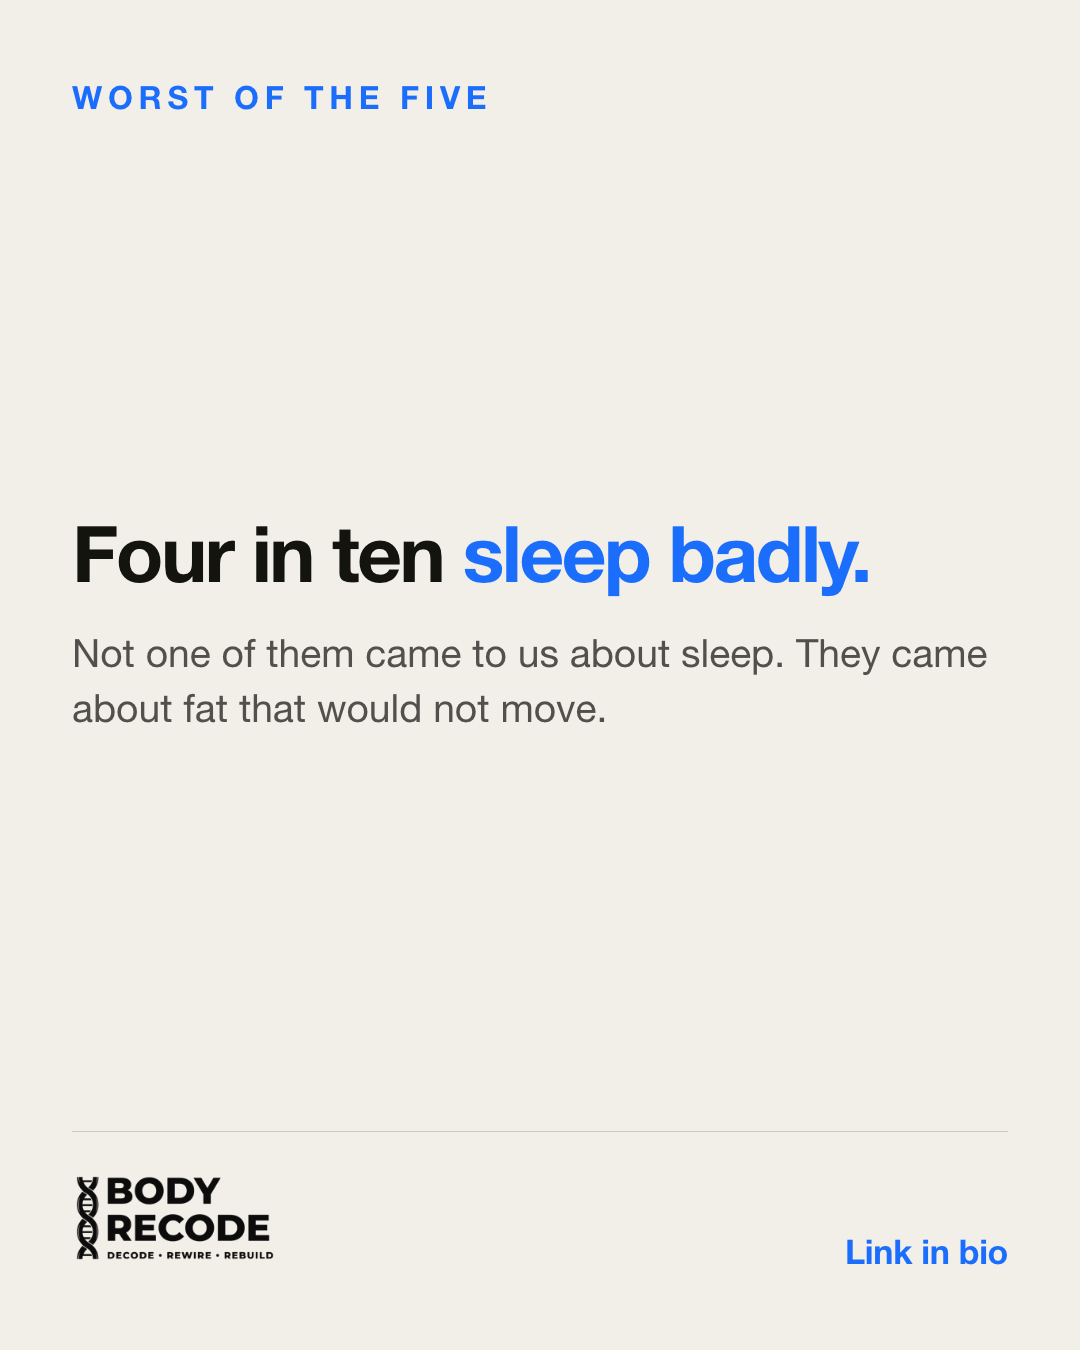
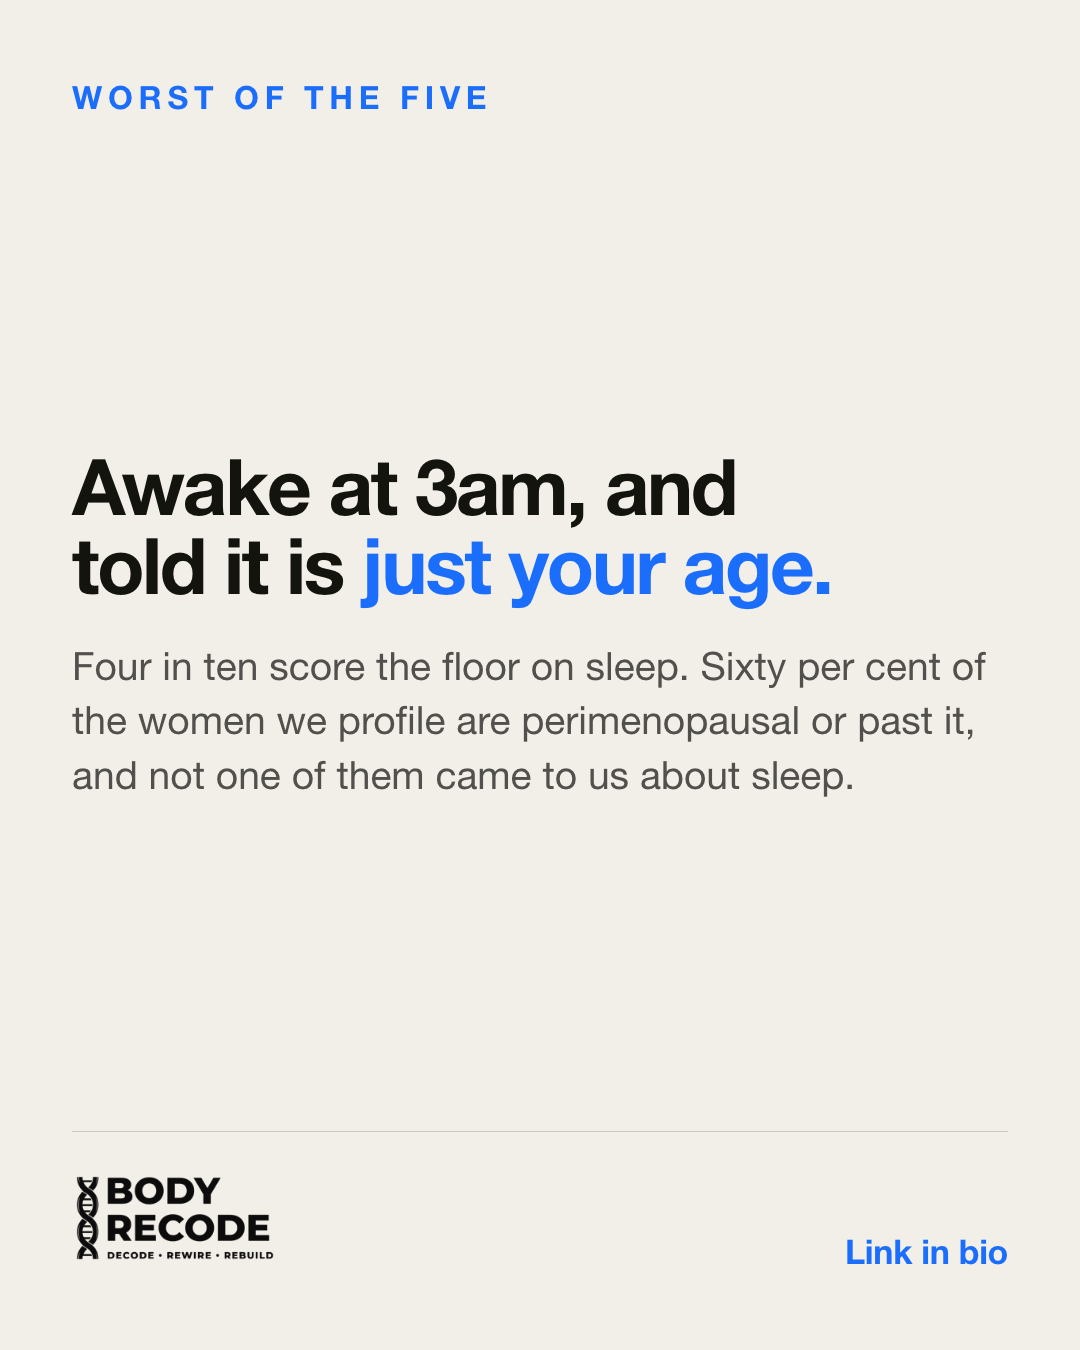
Lock the coverage spec and enforce it before scheduling
Four gaps were caught one at a time by eye on a review sheet: no readiness, no
carousels, no photo of Kade, nothing naming the oestrogen population. Each cost a
round trip. A checklist that runs beats four corrections.

audit-coverage.ts tests the words in the post rather than the intent behind it.
A post reading "interpretation before prescription" sounds like Body Recode and
names no pillar, no profile and no state, which is exactly the failure.

It caught two things immediately. One jargon slip, "score the floor", which is
our vocabulary and not theirs. And twelve posts where there should have been ten
- my seeder matched on date AND type, so changing a post's type created a second
row instead of updating the first and left a superseded duplicate on the same
day. Matching on date only now.

Menopause and the profile types are populations, not pillars, so they run
through neurowellness and readiness rather than sitting beside them.

Changed region(s): [[0.0611, 0.3422, 0.9167, 0.5911]]

diff --git a/scripts/audit-coverage.ts b/scripts/audit-coverage.ts
@@ -1,0 +1,95 @@
+// COVERAGE SPEC for a fortnight of @body_recode_ posts, and the audit that
+// enforces it.
+//
+// Locked 20 Aug 2026 after four separate gaps were caught one at a time by eye:
+// no readiness at all, no carousels, no photo of Kade, and nothing naming the
+// oestrogen population. Each was found only because Kade looked at a sheet. A
+// checklist that runs is worth more than four corrections.
+//
+// Everything here tests the WORDS IN THE POST, not the intent behind it. A post
+// that reads on-brand while naming none of the pillars is the exact failure this
+// is for: "interpretation before prescription" sounds like Body Recode and
+// mentions neither sleep, stress, capacity nor a profile.
+//
+// Run: npx tsx --env-file=.env.local scripts/audit-coverage.ts --from=2026-09-01 --to=2026-09-14
+import { createClient } from '@supabase/supabase-js'
+
+const db = createClient(process.env.NEXT_PUBLIC_SUPABASE_URL!, process.env.SUPABASE_SERVICE_ROLE_KEY!)
+const arg = (k: string, d: string) => process.argv.find(a => a.startsWith(`--${k}=`))?.split('=')[1] ?? d
+const FROM = arg('from', '2026-09-01')
+const TO = arg('to', '2026-09-14')
+
+// ── the spec ────────────────────────────────────────────────────────────────
+const CHECKS = [
+  // The two profile types that actually turn up. Ratios, never decimals: the
+  // pattern split is n=27 and a decimal will move.
+  { id: 'profile · stress-stored', min: 2, re: /stress|cortisol|wired|protection mode|central from the start/i,
+    why: 'roughly half of profiles' },
+  { id: 'profile · oestrogen-shift', min: 2, re: /oestrogen|estrogen|perimenopaus|menopaus|hips and thighs|the transition|moved to the middle/i,
+    why: 'about a third of profiles, and 60% of the group is peri or post' },
+
+  // The three states, together, at least once. Naming one alone does not teach
+  // the model.
+  { id: 'the three states', min: 1, re: /depleted[\s\S]{0,400}transitioning[\s\S]{0,400}ready|three states/i,
+    why: '31 / 51 / 18 - the thing the scorecard actually outputs' },
+
+  // Pillar airtime, 6 / 3 / 1 per ten.
+  { id: 'pillar · neurowellness', min: 4, re: /\bsleep|\bstress|regulat|nervous system|recover|3am|waking|rested/i,
+    why: 'target 6 in 10' },
+  { id: 'pillar · readiness', min: 3, re: /readiness|capacity|absorb|take the load|\bready\b|transitioning|depleted/i,
+    why: 'target 3 in 10' },
+  { id: 'pillar · metabolic', min: 1, max: 2, re: /insulin|carb|blood sugar/i,
+    why: 'target 1 in 10, and it works as a disqualifier not a claim' },
+
+  // Audience. 93% female, so the copy has to say so.
+  { id: 'names women', min: 10, re: /\bwomen\b|\bwoman\b|\bshe\b|\bher\b/i,
+    why: '93% female - every post, not most of them' },
+]
+
+// Age framing: 59% are 45+, which means four in ten are younger. Narrowing to
+// "45+" or "over 40" quietly excludes a large part of the audience.
+const AGE_NARROW = /\bover 40\b|\b40\+|\b45\+|\bover 45\b|\bwomen in their fifties\b/i
+
+// Our vocabulary, not theirs. These read as jargon cold.
+const JARGON = /floor sleep|score the floor|body state|capacity is fine|regulation is gone|n=\d+|section 0\d/i
+
+async function main() {
+  const { data } = await db.from('calendar_posts')
+    .select('date, title, caption, graphic, type')
+    .eq('brand', 'body_recode').eq('platform', 'instagram')
+    .neq('type', 'story')
+    .gte('date', FROM).lte('date', TO).order('date')
+  const rows = (data ?? []) as Array<Record<string, string | null>>
+  const text = (p: typeof rows[0]) => `${p.title ?? ''} ${p.caption ?? ''}`
+  const slides = (p: typeof rows[0]) => (p.graphic ?? '').split(',').filter(Boolean).length
+
+  console.log(`\nCOVERAGE · @body_recode_ · ${FROM} to ${TO} · ${rows.length} feed posts\n`)
+  let fails = 0
+
+  for (const c of CHECKS) {
+    const hits = rows.filter(p => c.re.test(text(p)))
+    const ok = hits.length >= c.min && (!c.max || hits.length <= c.max)
+    if (!ok) fails++
+    console.log(`${ok ? 'PASS' : 'FAIL'}  ${c.id.padEnd(28)} ${String(hits.length).padStart(2)}/${c.min}${c.max ? `-${c.max}` : '+'}   ${c.why}`)
+  }
+
+  // formats
+  const carousels = rows.filter(p => slides(p) > 1).length
+  const photos = rows.filter(p => /_neuro\.png|_readiness\.png|_metabolic\.png/.test(p.graphic ?? '') === false && slides(p) === 1).length
+  const fmtOk = carousels >= 2
+  if (!fmtOk) fails++
+  console.log(`${fmtOk ? 'PASS' : 'FAIL'}  ${'formats · carousels'.padEnd(28)} ${String(carousels).padStart(2)}/2+   dwell time, and a set of singles has none`)
+
+  // clarity
+  const jargon = rows.filter(p => JARGON.test(text(p)))
+  const narrow = rows.filter(p => AGE_NARROW.test(text(p)))
+  if (jargon.length) fails++
+  if (narrow.length) fails++
+  console.log(`${jargon.length ? 'FAIL' : 'PASS'}  ${'clarity · no jargon'.padEnd(28)} ${jargon.length} found     our vocabulary, not theirs`)
+  for (const p of jargon) console.log(`        ${p.date}  "${text(p).match(JARGON)?.[0]}"`)
+  console.log(`${narrow.length ? 'FAIL' : 'PASS'}  ${'audience · age not narrowed'.padEnd(28)} ${narrow.length} found     4 in 10 are under 45`)
+  for (const p of narrow) console.log(`        ${p.date}  "${text(p).match(AGE_NARROW)?.[0]}"`)
+
+  console.log(fails ? `\n${fails} FAILING. Fix before scheduling.\n` : '\nAll checks pass.\n')
+}
+main()

diff --git a/scripts/seed-sept-br-posts.ts b/scripts/seed-sept-br-posts.ts
@@ -3,10 +3,10 @@ const db = createClient(process.env.NEXT_PUBLIC_SUPABASE_URL!, process.env.SUPAB
 const POSTS = [
  ['2026-09-01','readiness','authority','Only 18 women in 100 could handle a hard plan',
   `Eighty-eight women have now been assessed.\n\nEighteen in every hundred came out able to handle a hard training plan.\n\nThe rest get one anyway. That is how plans are written: they assume a body that can absorb the work, then the same programme goes to the woman who can and the woman who cannot.\n\nOnly one of them gets a result.\n\nThe free 14-day Challenge tells you which one you are on day one.`],
- ['2026-09-02','readiness','contrarian','Same symptoms. Opposite fix.',
-  `Two women walk in with the same complaint. Tired all the time, flat sessions, a body that will not change.\n\nOne of them needs to do more.\n\nThe other is already doing too much, and every extra session makes it worse.\n\nFrom the outside they look identical. That is why the woman training hardest in any group is so often the one getting the least back.\n\nThe difference is capacity: what her body can absorb this week, not how willing she is.`],
- ['2026-09-03','neurowellness','pattern','Four in ten sleep badly',
-  `The women we assess do not come to us about sleep.\n\nThey come about fat that will not move, a plan that stopped working, a body that used to respond.\n\nThen we score them and sleep comes out bottom of the five. Awake at 2am. Up at 6 feeling like they never went to bed.\n\nYour body does not change during the session. It changes overnight.`],
+ ['2026-09-02','readiness','pattern','Same place. Different cause.',
+  `Nearly half the women we assess say the fat sits in the middle.\n\nWhich on its own tells you almost nothing, because three of the four causes push it there.\n\nStress was central from the start, and the arms and legs get thinner while the middle fills.\n\nFalling oestrogen is different. It started at the hips and thighs and moved to the middle over the last few years.\n\nSame place. Nothing like the same correction. And in the second phase they look identical, which is where most women get typed wrong.\n\nSo the question is not where it sits. It is whether it moved.`],
+ ['2026-09-03','neurowellness','contrarian','Awake at 3am, and told it is just your age',
+  `Sixty per cent of the women we profile are perimenopausal or past it, and the broken sleep gets waved off as part of the deal.\n\nIt is not nothing. Four in ten of the women we assess come out worst on sleep, and not one of them came to us about it. They came about fat that would not move.\n\nHer body does not change during the session. It changes overnight, and it has not had a proper night in two years.\n\nBeing in the transition explains why it is happening. It does not mean nothing can be done about it.`],
  ['2026-09-04','readiness','contrarian','How hard can you go? Wrong question.',
   `Every plan a woman is handed asks how hard she can go.\n\nNobody asks whether her body can take it right now.\n\nShe already has the willingness. What changes week to week is what her body can actually absorb, and that moves with sleep, stress, and whatever the last six months have been.\n\nPush a body that cannot absorb it and it does not get fitter. It holds on.`],
  ['2026-09-05','neurowellness','authority','You can still train hard. You just cannot recover.',
@@ -34,8 +34,11 @@ async function main(){
       ? Array.from({ length: CAROUSELS[date] }, (_, n) => `/calendar/${base}-s${n + 1}.png`).join(',')
       : `/calendar/${base}.png`
     if (!commit) { console.log(`${date}  ${String(pillar).padEnd(14)} ${title}`); continue }
+    // Match on DATE ONLY. Matching on (date, type) meant changing a post's type
+    // created a second row rather than updating the first, and left a
+    // superseded duplicate on the same day.
     const { data: existing } = await db.from('calendar_posts').select('id')
-      .eq('brand','body_recode').eq('platform','instagram').eq('date',date).eq('type',type).limit(1)
+      .eq('brand','body_recode').eq('platform','instagram').eq('date',date).neq('type','story').limit(1)
     const row = { brand:'body_recode', platform:'instagram', date, time:'07:00', type,
       title, caption, graphic, phase:'scale' }
     if (existing?.length) await db.from('calendar_posts').update(row).eq('id', existing[0].id)
